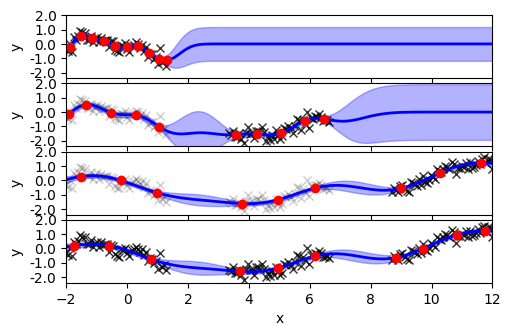
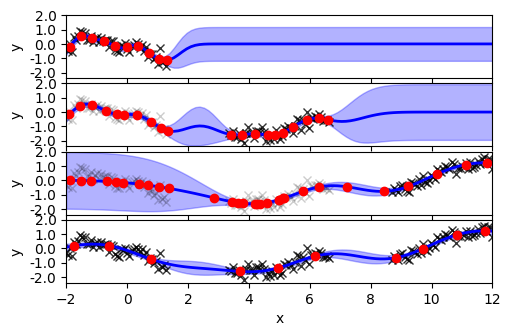
add removing of old data from GP

diff --git a/src/models/osgpr.py b/src/models/osgpr.py
@@ -1,0 +1,192 @@
+from gpflow.models import GPModel
+from gpflow.models.training_mixins import RegressionData, InputData
+from gpflow.kernels import Kernel
+from gpflow.mean_functions import Zero
+from gpflow.likelihoods import Gaussian
+from gpflow.types import MeanAndVariance
+from gpflow.inducing_variables import InducingPoints
+import gpflow
+import tensorflow as tf
+from typing import Optional, Union
+import numpy as np
+
+
+float_type = gpflow.config.default_float()
+
+
+class OSGPR(GPModel, gpflow.models.InternalDataTrainingLossMixin):
+    """
+    Online Sparse Variational GP regression.
+
+    Streaming Gaussian process approximations
+    Thang D. Bui, Cuong V. Nguyen, Richard E. Turner
+    NIPS 2017
+    """
+    def __init__(self,
+                 data: RegressionData,
+                 kernel: Kernel,
+                 mu_old: Optional[tf.Tensor],
+                 Su_old: Optional[tf.Tensor],
+                 Kaa_old: Optional[tf.Tensor],
+                 Z_old: Optional[tf.Tensor],
+                 inducing_variable: Union[InducingPoints, np.ndarray],
+                 mean_function=Zero()):
+        """
+        Z is a matrix of pseudo inputs, size M x D
+        kern, mean_function are appropriate gpflow objects
+        mu_old, Su_old are mean and covariance of old q(u)
+        Z_old is the old inducing inputs
+        This method only works with a Gaussian likelihood.
+        """
+        X, Y = data
+        self.X = X
+        self.Y = Y
+        likelihood = Gaussian()
+        self.inducing_variable = gpflow.models.util.inducingpoint_wrapper(inducing_variable)
+
+        GPModel.__init__(self, kernel, likelihood, mean_function, inducing_variable.size)
+
+        self.num_data = X.shape[0]
+        self.num_latent = Y.shape[1]
+
+        self.mu_old = gpflow.Parameter(mu_old, trainable=False)
+        self.M_old = Z_old.shape[0]
+        self.Su_old = gpflow.Parameter(Su_old, trainable=False)
+        self.Kaa_old = gpflow.Parameter(Kaa_old, trainable=False)
+        self.Z_old = gpflow.Parameter(Z_old,  trainable=False)
+
+    def _build_common_terms(self):
+        Mb = tf.shape(self.inducing_variable.Z)[0]
+        Ma = self.M_old
+        jitter = gpflow.config.default_jitter()
+        sigma2 = self.likelihood.variance
+        sigma = tf.sqrt(sigma2)
+
+        Saa = self.Su_old
+        ma = self.mu_old
+
+        # a is old inducing points, b is new
+        # f is training points
+        # s is test points
+        Kbf = self.kernel.K(self.inducing_variable.Z, self.X)
+        Kbb = self.kernel.K(self.inducing_variable.Z) + tf.eye(Mb, dtype=float_type) * jitter
+        Kba = self.kernel.K(self.inducing_variable.Z, self.Z_old)
+        Kaa_cur = self.kernel.K(self.Z_old) + tf.eye(Ma, dtype=float_type) * jitter
+        Kaa = self.Kaa_old + tf.eye(Ma, dtype=float_type) * jitter
+
+        err = self.Y - self.mean_function(self.X)
+
+        Sainv_ma = tf.linalg.solve(Saa, ma)
+        Sinv_y = self.Y / sigma2
+        c1 = tf.matmul(Kbf, Sinv_y)
+        c2 = tf.matmul(Kba, Sainv_ma)
+        c = c1 + c2
+
+        Lb = tf.linalg.cholesky(Kbb)
+        Lbinv_c = tf.linalg.triangular_solve(Lb, c, lower=True)
+        Lbinv_Kba = tf.linalg.triangular_solve(Lb, Kba, lower=True)
+        Lbinv_Kbf = tf.linalg.triangular_solve(Lb, Kbf, lower=True) / sigma
+        d1 = tf.matmul(Lbinv_Kbf, tf.transpose(Lbinv_Kbf))
+
+        LSa = tf.linalg.cholesky(Saa)
+        Kab_Lbinv = tf.transpose(Lbinv_Kba)
+        LSainv_Kab_Lbinv = tf.linalg.triangular_solve(
+            LSa, Kab_Lbinv, lower=True)
+        d2 = tf.matmul(tf.transpose(LSainv_Kab_Lbinv), LSainv_Kab_Lbinv)
+
+        La = tf.linalg.cholesky(Kaa)
+        Lainv_Kab_Lbinv = tf.linalg.triangular_solve(
+            La, Kab_Lbinv, lower=True)
+        d3 = tf.matmul(tf.transpose(Lainv_Kab_Lbinv), Lainv_Kab_Lbinv)
+
+        D = tf.eye(Mb, dtype=float_type) + d1 + d2 - d3
+        D = D + tf.eye(Mb, dtype=float_type) * jitter
+        LD = tf.linalg.cholesky(D)
+
+        LDinv_Lbinv_c = tf.linalg.triangular_solve(LD, Lbinv_c, lower=True)
+
+        return (Kbf, Kba, Kaa, Kaa_cur, La, Kbb, Lb, D, LD,
+                Lbinv_Kba, LDinv_Lbinv_c, err, d1)
+
+    def maximum_log_likelihood_objective(self) -> tf.Tensor:
+        """
+        Construct a tensorflow function to compute the bound on the marginal
+        likelihood.
+        """
+
+        sigma2 = self.likelihood.variance
+        N = self.num_data
+
+        Saa = self.Su_old
+        ma = self.mu_old
+
+        # a is old inducing points, b is new
+        # f is training points
+        Kfdiag = self.kernel(self.X, full_cov=False)
+        (Kbf, Kba, Kaa, Kaa_cur, La, Kbb, Lb, D, LD,
+        Lbinv_Kba, LDinv_Lbinv_c, err, Qff) = self._build_common_terms()
+
+        LSa = tf.linalg.cholesky(Saa)
+        Lainv_ma = tf.linalg.triangular_solve(LSa, ma, lower=True)
+
+        bound = 0
+        # constant term
+        bound = -0.5 * N * np.log(2 * np.pi)
+        # quadratic term
+        bound += -0.5 * tf.reduce_sum(tf.square(err)) / sigma2
+        # bound += -0.5 * tf.reduce_sum(ma * Sainv_ma)
+        bound += -0.5 * tf.reduce_sum(tf.square(Lainv_ma))
+        bound += 0.5 * tf.reduce_sum(tf.square(LDinv_Lbinv_c))
+        # log det term
+        bound += -0.5 * N * tf.reduce_sum(tf.math.log(sigma2))
+        bound += - tf.reduce_sum(tf.math.log(tf.linalg.diag_part(LD)))
+
+        # delta 1: trace term
+        bound += -0.5 * tf.reduce_sum(Kfdiag) / sigma2
+        bound += 0.5 * tf.reduce_sum(tf.linalg.diag_part(Qff))
+
+        # delta 2: a and b difference
+        bound += tf.reduce_sum(tf.math.log(tf.linalg.diag_part(La)))
+        bound += - tf.reduce_sum(tf.math.log(tf.linalg.diag_part(LSa)))
+
+        Kaadiff = Kaa_cur - tf.matmul(tf.transpose(Lbinv_Kba), Lbinv_Kba)
+        Sainv_Kaadiff = tf.linalg.solve(Saa, Kaadiff)
+        Kainv_Kaadiff = tf.linalg.solve(Kaa, Kaadiff)
+
+        bound += -0.5 * tf.reduce_sum(
+            tf.linalg.diag_part(Sainv_Kaadiff) - tf.linalg.diag_part(Kainv_Kaadiff))
+
+        return bound
+
+    def predict_f(self, Xnew: InputData, full_cov: bool = False, **kwargs) -> MeanAndVariance:
+        """
+        Compute the mean and variance of the latent function at some new points
+        Xnew.
+        """
+
+        jitter = gpflow.config.default_jitter()
+
+        # a is old inducing points, b is new
+        # f is training points
+        # s is test points
+        Kbs = self.kernel.K(self.inducing_variable.Z, Xnew)
+        (Kbf, Kba, Kaa, Kaa_cur, La, Kbb, Lb, D, LD,
+            Lbinv_Kba, LDinv_Lbinv_c, err, Qff) = self._build_common_terms()
+
+        Lbinv_Kbs = tf.linalg.triangular_solve(Lb, Kbs, lower=True)
+        LDinv_Lbinv_Kbs = tf.linalg.triangular_solve(LD, Lbinv_Kbs, lower=True)
+        mean = tf.matmul(tf.transpose(LDinv_Lbinv_Kbs), LDinv_Lbinv_c)
+
+        if full_cov:
+            Kss = self.kernel.K(Xnew) + jitter * tf.eye(tf.shape(Xnew)[0], dtype=float_type)
+            var1 = Kss
+            var2 = - tf.matmul(tf.transpose(Lbinv_Kbs), Lbinv_Kbs)
+            var3 = tf.matmul(tf.transpose(LDinv_Lbinv_Kbs), LDinv_Lbinv_Kbs)
+            var = var1 + var2 + var3
+        else:
+            var1 = self.kernel(Xnew, full_cov=False)
+            var2 = -tf.reduce_sum(tf.square(Lbinv_Kbs), 0)
+            var3 = tf.reduce_sum(tf.square(LDinv_Lbinv_Kbs), 0)
+            var = var1 + var2 + var3
+
+        return mean + self.mean_function(Xnew), var

diff --git a/experiments/reg_exmp.py b/experiments/reg_exmp.py
@@ -120,7 +120,10 @@ def plot_VFE_optimized(M, use_old_Z, shuffle):
 
     Kaa1 = model1.kernel.K(model1.inducing_variable.Z)
 
-    Zinit = init_Z(Zopt.numpy(), X2, use_old_Z)
+    # Zinit = init_Z(Zopt.numpy(), X2, use_old_Z)
+    Zinit = X2[np.random.permutation(X1.shape[0])[0:M], :]
+    Zinit = np.vstack((Zopt.numpy(), Zinit))
+    print(Su1.shape)
     model2 = src.models.osgpr.OSGPR((X2, y2), GPflow.kernels.RBF(1), mu1, Su1, Kaa1,
         Zopt, Zinit)
     model2.likelihood.variance.assign(model1.likelihood.variance)
@@ -140,15 +143,19 @@ def plot_VFE_optimized(M, use_old_Z, shuffle):
 
     Kaa2 = model2.kernel.K(tf.constant(model2.inducing_variable.Z))
 
-    Zinit = init_Z(Zopt.numpy(), X3, use_old_Z)
-    model3 = src.models.osgpr.OSGPR((X3, y3), GPflow.kernels.RBF(1), mu2, Su2, Kaa2,
-        Zopt, Zinit)
+    #Zinit = init_Z(Zopt.numpy(), X3, use_old_Z)
+    Zinit = X2[np.random.permutation(X1.shape[0])[0:M], :]
+    Zinit = np.vstack((Zopt.numpy(), Zinit))
+    print(Su2.shape)
+    model3 = src.models.osgpr.OSGPR((X3, y3), GPflow.kernels.RBF(1), mu2[10:, :], Su2[10:, 10:], Kaa2[10:, 10:],
+        Zopt[10:, :], Zinit)
     model3.likelihood.variance.assign(model2.likelihood.variance)
     model3.kernel.variance.assign(model2.kernel.variance)
     model3.kernel.lengthscales.assign(model2.kernel.lengthscales)
     optimizer = GPflow.optimizers.Scipy()
     optimizer.minimize(model3.training_loss, model3.trainable_variables)
     mu3, Su3, Zopt = plot_model(model3, axs[2], X3, y3, xx, seen_x, seen_y)
+
 
     Z4 = X[np.random.permutation(X.shape[0])[0:M], :]
     model4 = GPflow.models.sgpr.SGPR((X, y), GPflow.kernels.RBF(1), Z4)
@@ -161,12 +168,6 @@ def plot_VFE_optimized(M, use_old_Z, shuffle):
     # plot prediction
     xx = np.linspace(-2, 12, 100)[:, None]
     mu4, Su4, Zopt4 = plot_model(model4, axs[3], X, y, xx, None, None)
-
-    # GPflow.utilities.print_summary(model3)
-    # GPflow.utilities.print_summary(model4)
-    # print(model4.compute_qu())
-    print(sorted(Zopt4.numpy()))
-    print(sorted(Zopt.numpy()))
 
     axs[3].set_xlabel('x')
     fig.savefig('experiments/plots/online_exmpl.png', bbox_inches='tight')
